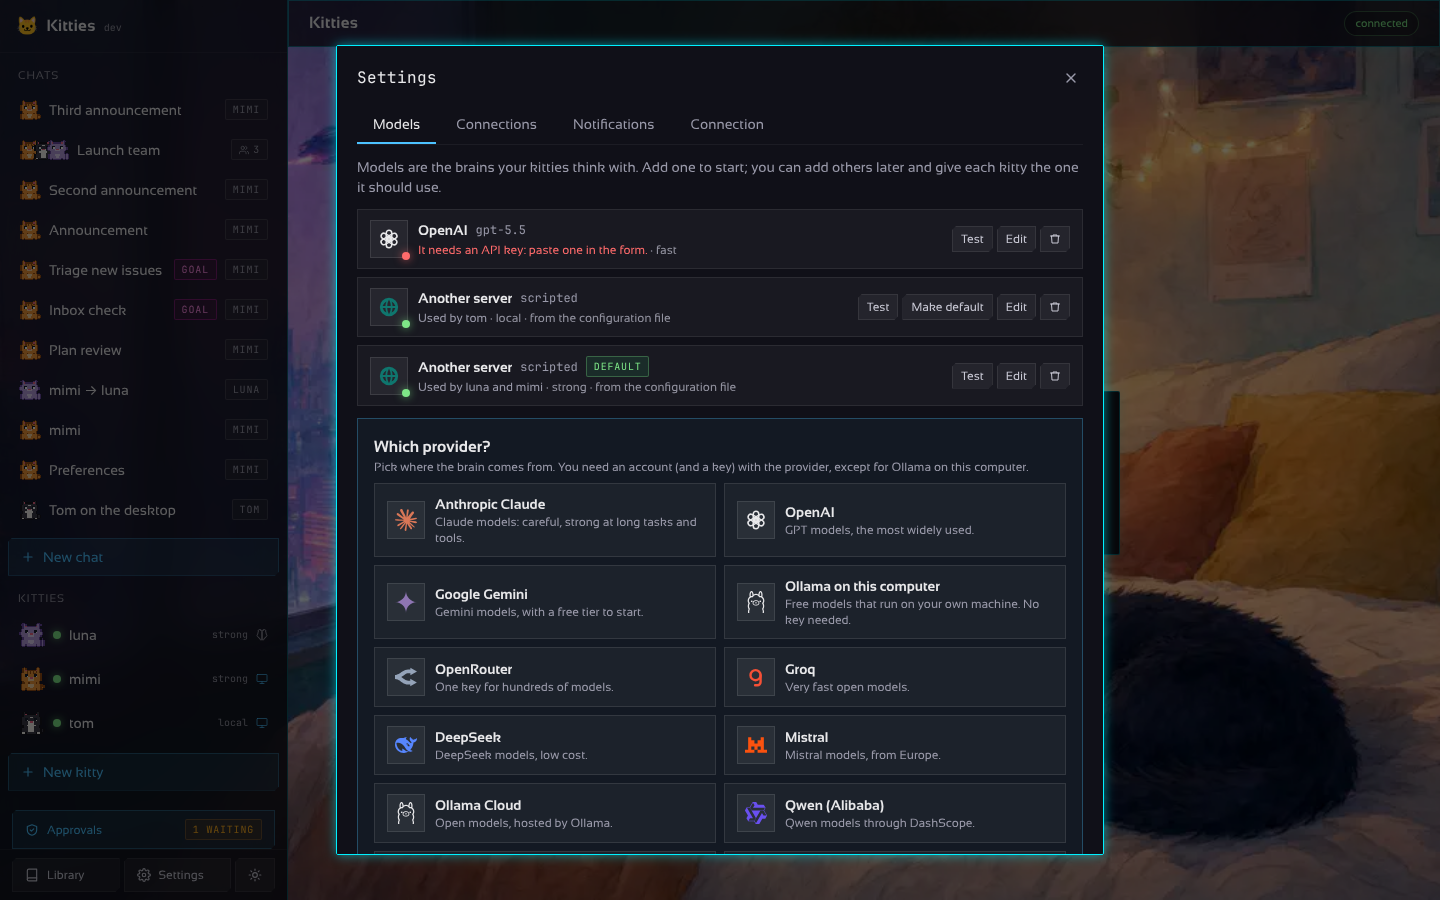
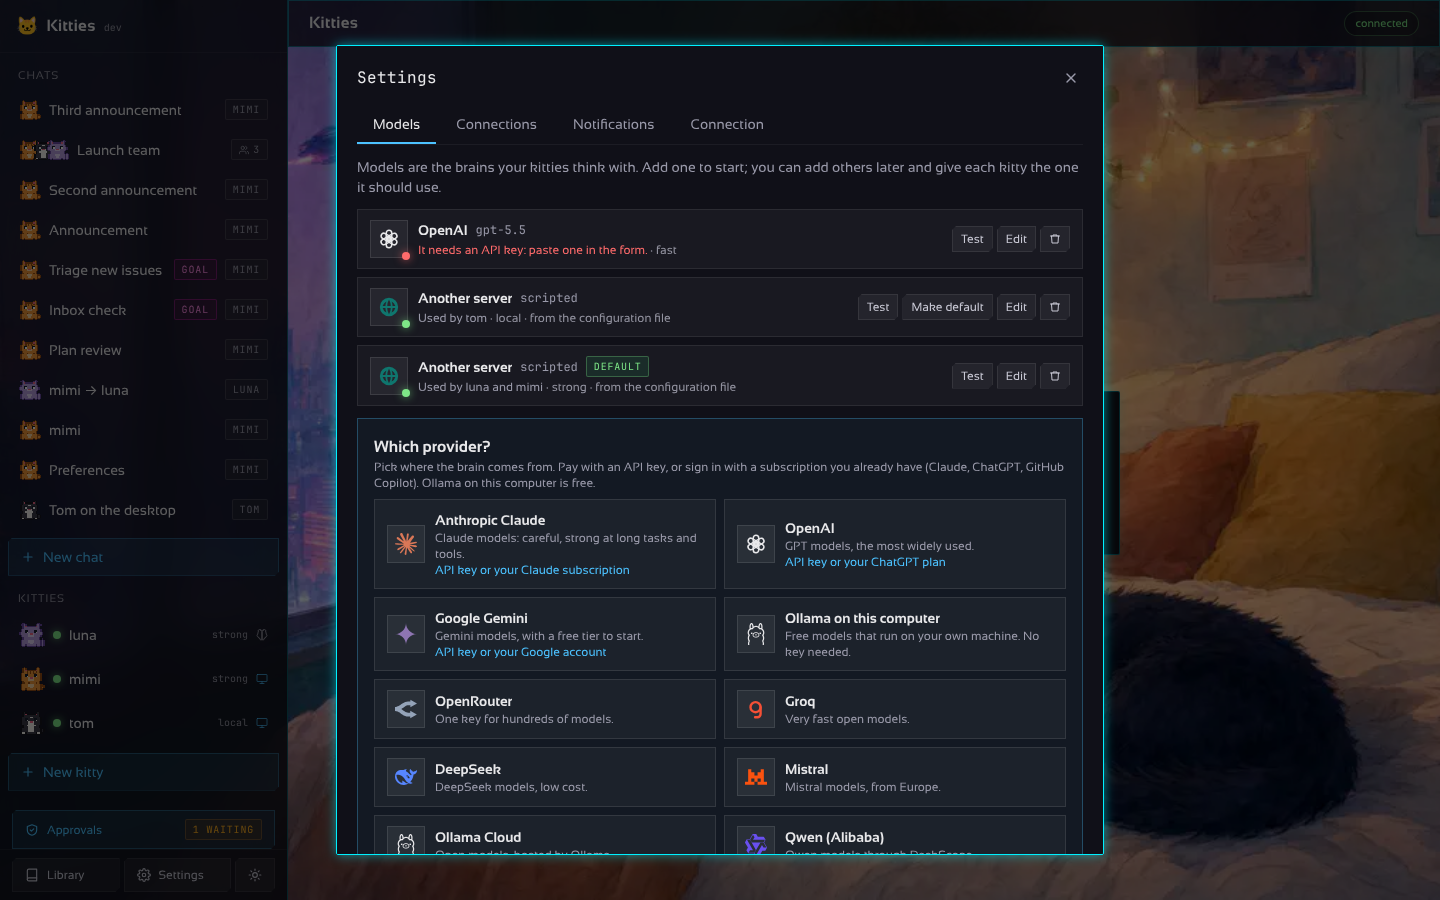
docs: models on a subscription, with screenshots and an example
Claude-Session: https://claude.ai/code/session_01G4WhTC4VX1E1kVWM8d6N2Z

Changed region(s): [[0.25, 0.5289, 0.4688, 0.9333], [0.5, 0.56, 0.7188, 0.9644], [0.4062, 0.4978, 0.7188, 0.5289]]

diff --git a/README.md b/README.md
@@ -63,7 +63,7 @@ On Windows, SmartScreen asks once: *More info* then *Run anyway*.
 
 ```sh
 kitties init                 # writes kitties.yaml and souls/tom.yaml
-export ANTHROPIC_API_KEY=... # or OPENAI_API_KEY, GEMINI_API_KEY, GROQ_API_KEY... (or type keys in Settings)
+export ANTHROPIC_API_KEY=... # or OPENAI_API_KEY, GEMINI_API_KEY... (or a key or a subscription in Settings)
 make image                   # builds the kitty-desktop image (needs Docker or Podman)
 kitties gateway              # creates the kitties of the file, starts them, serves the API
 ```
@@ -129,6 +129,7 @@ cd desktop && wails dev   # live reload while working on it
 | ![New kitty: pick its pixel cat](docs/screenshots/07-new-kitty.png) | ![Light mode](docs/screenshots/11-light.png) |
 | ![A first run is a checklist](docs/screenshots/31-welcome.png) | ![Adding a model: pick the provider](docs/screenshots/32-pick-provider.png) |
 | ![Adding a model: the key and the suggested model](docs/screenshots/34-add-model.png) | ![A connection and the kitties that may use it](docs/screenshots/33-connection-form.png) |
+| ![A Claude subscription, through Claude Code](docs/screenshots/35-claude-subscription.png) | ![GitHub Copilot: sign in with a code](docs/screenshots/36-copilot-code.png) |
 | ![A kitty posting through Slack: the chip carries the logo](docs/screenshots/19-connector-call.png) | ![The phone layout](docs/screenshots/12-phone.png) |
 
 More in [docs/screenshots](docs/screenshots): the new chat and new kitty dialogs, the gateway
@@ -361,6 +362,22 @@ Keys come from the provider's usual variable (`OPENAI_API_KEY`, `ANTHROPIC_API_K
 `GEMINI_API_KEY`, `GROQ_API_KEY`, `OPENROUTER_API_KEY`, `DEEPSEEK_API_KEY`, `DASHSCOPE_API_KEY`,
 `MISTRAL_API_KEY`, `OLLAMA_API_KEY`) unless `api_key` or `api_key_env` says otherwise.
 
+### A subscription instead of a key
+
+Under **Settings → Models**, a provider that has one offers *API key* or the subscription you
+already pay for:
+
+| Subscription | How it signs in | Saved as |
+| --- | --- | --- |
+| Claude (Pro, Max) | Anthropic only allows it through Claude Code: install it, run `claude auth login` once, and Kitties runs the `claude` program for each answer (tools as text, no API key passed to it) | `kind: claude-code` |
+| ChatGPT (Plus, Pro, Business) | *Sign in with ChatGPT* in the browser; the callback lands on `localhost:1455`, or paste its address back when the gateway runs elsewhere | `kind: codex, auth: login` |
+| GitHub Copilot | a code typed on github.com/login/device | `kind: copilot, auth: login` |
+| Google (Gemini) | the login of gcloud (`gcloud auth application-default login`) and a Cloud project | `kind: gemini, auth: login` |
+| Qwen | ended by Qwen on 2026-04-15: a DashScope key is the way in | — |
+
+The tokens are kept in `data_dir/accounts` (one file per account, readable by you only) and
+renewed before they expire.
+
 ## The API
 
 | Method and path                           | What it does                                   |
@@ -388,6 +405,7 @@ Keys come from the provider's usual variable (`OPENAI_API_KEY`, `ANTHROPIC_API_K
 | `GET/POST /v1/kitties/{ref}/memory` · `DELETE …/memory/{id}` · `PUT …/memory/profile` · `POST …/memory/distill` | a kitty's notes, its picture of you, and a distillation now |
 | `POST /v1/chats/{id}/turns/{index}/feedback` `{rating, note}` | a thumb under an answer |
 | `PUT /v1/settings/notify` · `POST /v1/settings/notify/test` · `POST …/notify/digest` | where and when kitties tell you; a test; the daily summary now |
+| `POST /v1/settings/accounts/{kind}/login` · `GET/DELETE /v1/settings/logins/{id}` · `POST …/paste` · `DELETE /v1/settings/accounts/{kind}` | sign a model in with a subscription, follow it, paste the browser's address, sign out |
 
 Every other call needs `Authorization: Bearer <token>`; `/` and `/v1/health` are open.
 
